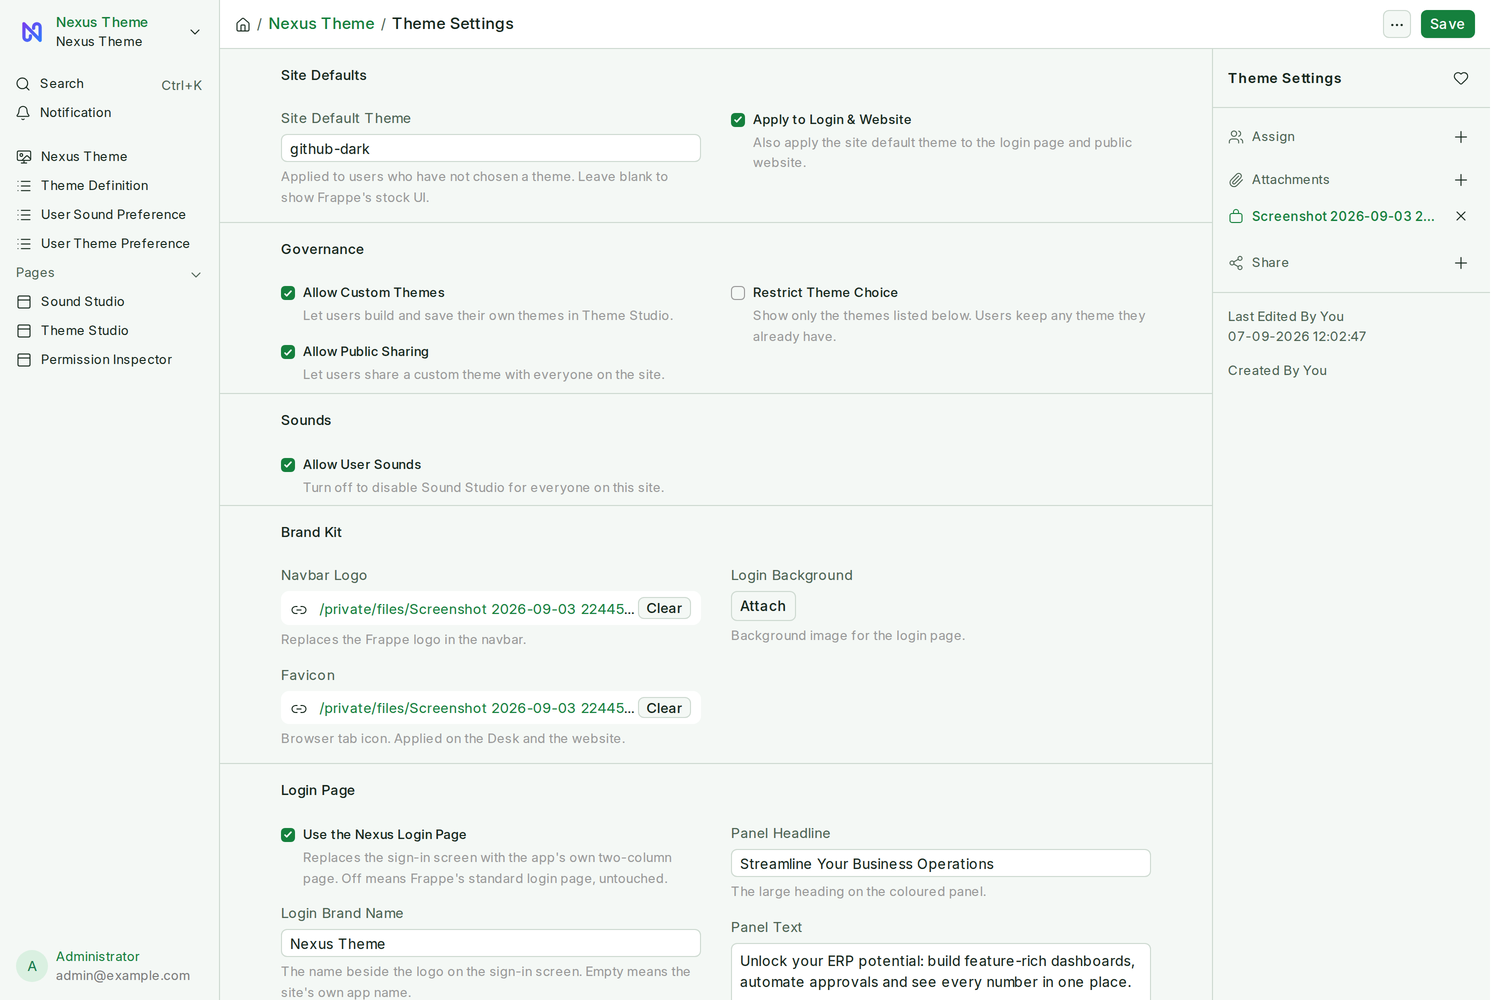
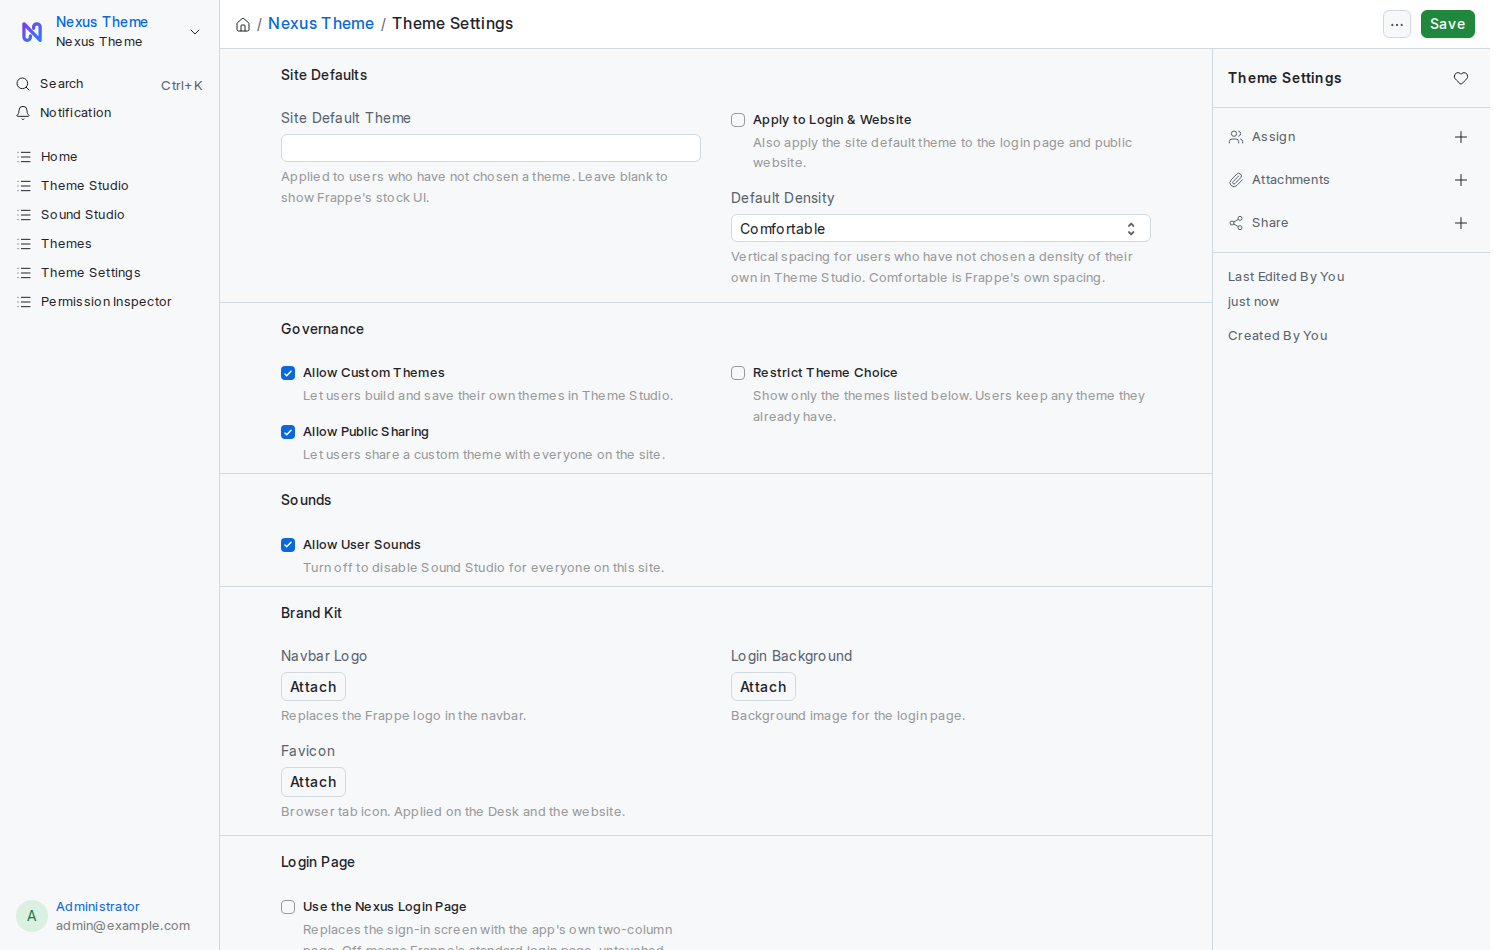
Show every screen as it looks in 2.1
Several screenshots still showed the 1.x screens: Theme Studio without
the Density switch, the editor without its Sidebar group, Theme
Settings without Default Density or the Home Page section, the
preference form without its new fields, and the Permission Inspector
drawer from before it reported own-only and shared access. All of them
are retaken on a clean ERPNext 16 site.

Sections that had no picture get one: the three theme lists, the live
contrast check, the rail command in the palette, the Home Page section
of Theme Settings, the home page in its Compact list layout, and the
Sidebar group of a Theme Definition. The text follows the screens too:
the third list is "Shared by Others", the contrast rules include the
sidebar, a Theme Definition has six groups, and the inspector's answer
comes from Frappe's permission engine as Yes, No, Own only or Shared
records only rather than being called exactly what is enforced.

Authored by: abbas0444 <abbasraza0444@gmail.com>

diff --git a/README.md b/README.md
@@ -222,6 +222,10 @@ Hover the rail for a moment and it opens over the page, labels and all, without 
 
 ![Hovering the rail peeks it open over the page](docs/images/sidebar-rail-peek.png)
 
+The command palette offers it too: type `side`.
+
+![Collapse sidebar in the command palette](docs/images/command-palette-rail.png)
+
 Your choice is saved for you, not for the browser, so it follows you to every device. Press the same shortcut, or the chevron, to bring the full sidebar back; the chevron always stays visible on the rail.
 
 On a phone-sized screen the rail stays out of the way: Frappe's own drawer takes over. On Frappe 15, which has no app-wide sidebar, the same shortcut and the same saved choice fold the side column of the page you are on.
@@ -259,7 +263,11 @@ Click a different card and only the preview changes. The Desk behind it stays as
 |---|---|
 | **Default Themes** | The 17 themes that ship with the app |
 | **My Custom Themes** | Themes you saved. Only you see them, and you can delete them here. |
-| **Public Themes** | Themes your colleagues chose to share with everyone |
+| **Shared by Others** | Themes your colleagues chose to share with everyone |
+
+![My Custom Themes and Shared by Others in the gallery](docs/images/studio-lists.png)
+
+*A custom theme of your own (Brand Blue) sits under My Custom Themes; one a colleague shared shows under Shared by Others.*
 
 The 17 bundled themes are:
 
@@ -333,7 +341,13 @@ Every theme you save is tested first:
 - text on cards must reach **4.5 : 1**
 - button text on buttons must reach **3.0 : 1**
 
+- sidebar text on a Tinted, Solid or Gradient sidebar must reach **4.5 : 1**, against the far end of a gradient and against the highlighted item too
+
 If a check fails you get a clear message naming the pair of colours to fix. You cannot save a theme nobody can read.
+
+The editor shows the result live, above the buttons: every pair, its ratio, and a green *Passes WCAG AA* when all of them do. When one fails, **Auto-fix** nudges the colour until it passes.
+
+![The live contrast check in Theme Studio](docs/images/studio-contrast.png)
 
 ### 4.7 Automatic light and dark
 
@@ -511,7 +525,7 @@ Filters above the table:
 
 A panel opens on the right with:
 
-- **What can Abbas do here?** Every applicable action with a Yes or No in words, checked live with Frappe so it is exactly what the system enforces right now.
+- **What can Abbas do here?** Every applicable action in words, worked out by Frappe's own permission engine from their roles, the way it decides for a record: **Yes**, **No**, **Own only** (only on records they created) or **Shared records only** (no role allows it, but some records were shared with them). A User Permission can still narrow which records a Yes applies to; *Which records?* shows it.
 - **Why?** Each role's rule in words: *Role Accounts User allows: View, Edit, Create, Submit…*
 - **Which records?** Any User Permission that narrows this record type, such as *Only where Company is Acme Ltd*.
 - The **standard rules before they were customised**, if someone changed them.
@@ -616,7 +630,9 @@ All of the wording lives in one place, in the **Login Page** section of Theme Se
 
 ### 7.2 The Nexus home page
 
-Tick **Use the Nexus Home Page** in Theme Settings and the Desk opens on a home page instead of Frappe's own landing, for every Desk user:
+Tick **Use the Nexus Home Page** in Theme Settings and the Desk opens on a home page instead of Frappe's own landing, for every Desk user.
+
+![The Home Page section of Theme Settings](docs/images/dt-theme-settings-home.png)
 
 ![The Nexus home page](docs/images/nexus-home.png)
 
@@ -628,6 +644,10 @@ Tick **Use the Nexus Home Page** in Theme Settings and the Desk opens on a home 
 It follows the theme, the density and right-to-left languages:
 
 ![The home page on a dark theme](docs/images/nexus-home-dark.png)
+
+With **Home Layout** set to *Compact list*, the workspaces are a denser list instead of tiles:
+
+![The home page in the Compact list layout](docs/images/nexus-home-list.png)
 
 Untick the box and the Desk goes straight back to Frappe's own landing on the next page load. Frappe's own desktop is always one click away through **All apps** on the home page. Anyone can also open the page on purpose at `/app/nexus-home`, or from the command palette with *Open Home*.
 
@@ -649,7 +669,7 @@ One row is one theme. The 17 that ship with the app are here, and so is every th
 
 ![The Theme Definition list](docs/images/dt-theme-definition-list.png)
 
-Open one and you see exactly the values Theme Studio edits, in four groups: **Identity**, **Colors**, **Buttons** and **Typography**.
+Open one and you see exactly the values Theme Studio edits, in six groups: **Identity**, **Colors**, **Buttons**, **Typography**, **Motion & Shape** and **Sidebar**.
 
 ![A Theme Definition record](docs/images/dt-theme-definition-form.png)
 
@@ -664,6 +684,8 @@ Open one and you see exactly the values Theme Studio edits, in four groups: **Id
 | **Restrict to Roles** | Leave empty to show it to everyone. Fill it in and only those roles see the theme. |
 | **Colors / Buttons / Typography** | The eleven colours, the font family, the base size and weight, and the corner radius |
 | **Sidebar** | Sidebar Style (Plain, Tinted, Solid, Gradient), Sidebar Pattern, Module Icon Tints, and optional Sidebar Background, Text and Active Item colours. Empty colours are worked out from the accent. |
+
+![The Sidebar group of a Theme Definition](docs/images/dt-theme-definition-sidebar.png)
 
 **When to create a new one by hand**
 
@@ -975,7 +997,7 @@ Check the Enable sounds switch in Sound Settings, then the browser's site permis
 Only System Managers can open it. Ask one to open `/app/nexus-permission-inspector`.
 
 **I changed a permission and the person still cannot do it.**
-Open the record type in the inspector and read **What can they do here?**; it is checked live. If it says Yes, ask the person to reload the page. If it says No, another rule or a User Permission is limiting them; the **Why?** and **Which records?** sections show which.
+Open the record type in the inspector and read **What can they do here?**; it comes from Frappe's own permission engine. If it says Yes, ask the person to reload the page. If it says No, another rule or a User Permission is limiting them; the **Why?** and **Which records?** sections show which.
 
 **I want to undo a permission change.**
 Change it back in the inspector, or open the record type in Frappe's Role Permission Manager and press Restore Original Permissions to return to the standard rules.
